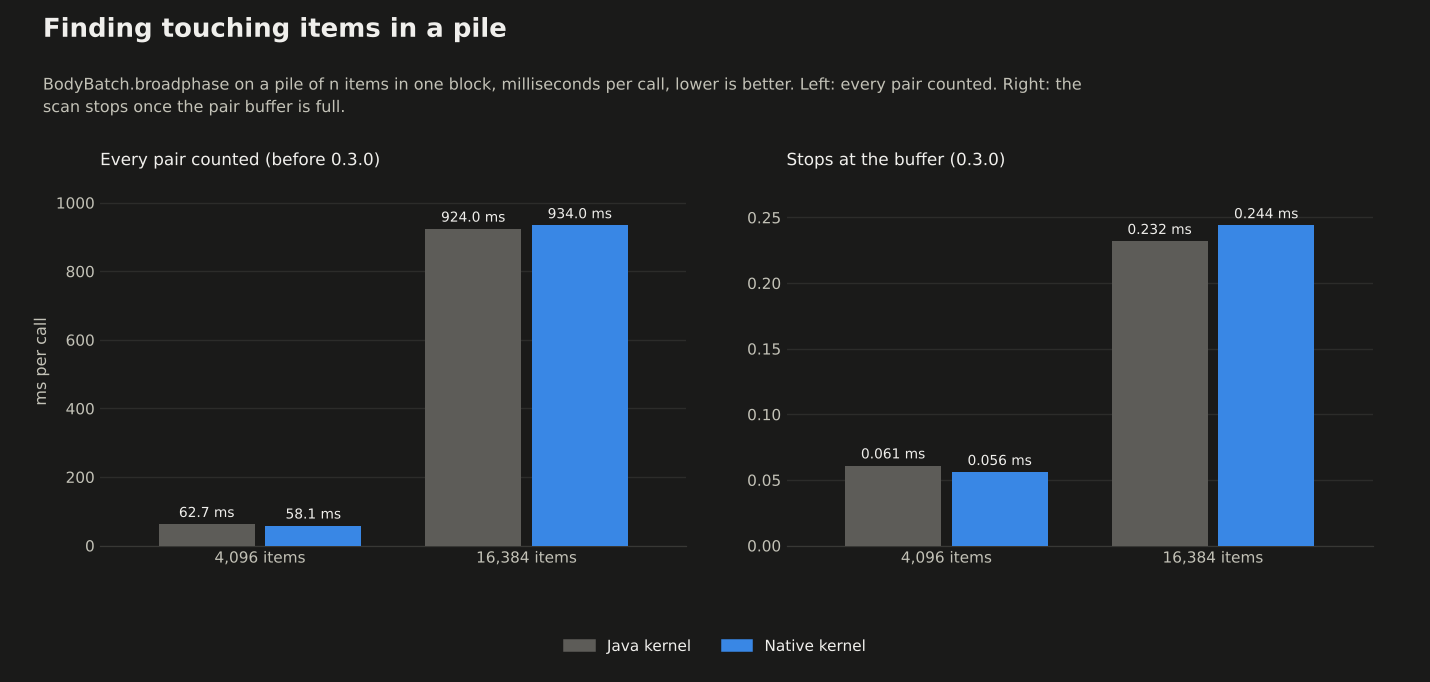
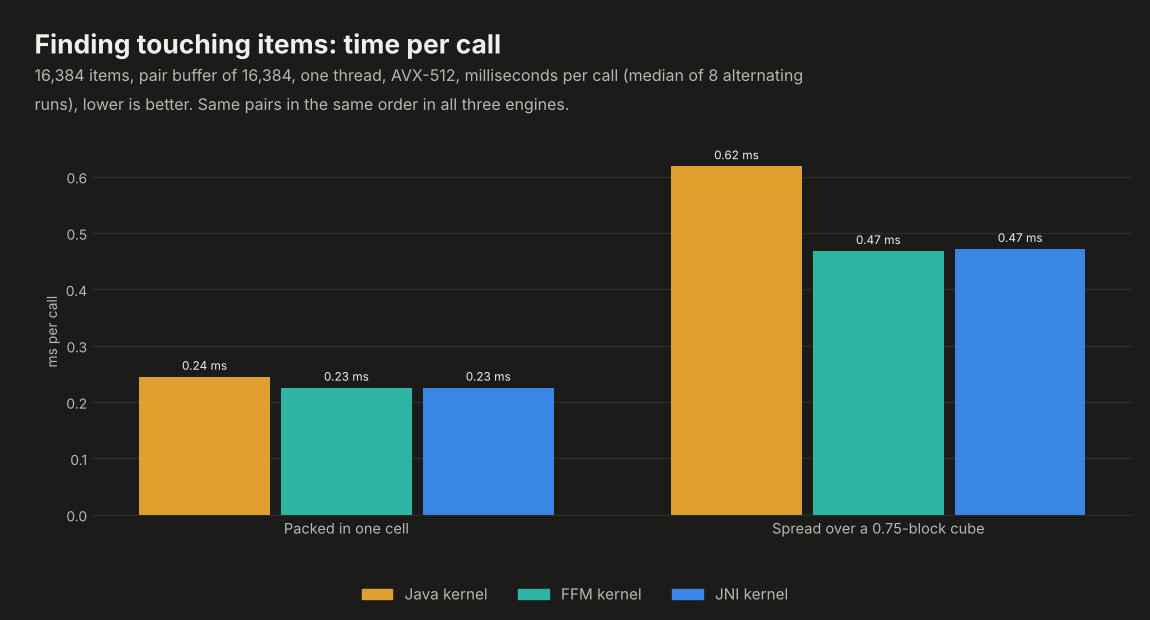
Benchmarks: Java, JNI and FFM side by side; stop selling native code as the speed-up
Every physics benchmark now shows the three engines. Kernel, one thread,
AVX2, alternating runs: the native kernel is 1.6x to 2.0x faster than Java from
10,000 items up (10,000 items: 2.08 ms Java, 1.02 JNI, 1.07 FFM; 32,768:
6.97, 3.41, 3.52), JNI and FFM level. Broadphase of 16,384 items: a tie packed
in one cell (0.24 / 0.23 / 0.23 ms), native ahead spread out (0.62 / 0.47 /
0.47 ms). Real server (Velox, three runs, 1.21.1 and 26.1): Velox is 5x to 18x
faster than the normal game and the three engines tie; the physics step is 1-2 %
of the server thread with native code and about 7 % with Java.

So the README, the wiki and Performance no longer credit native code for the
server result, say the native kernel is off by default and how a mod turns it
on, and give the numbers per engine. The 3-thread rows (not re-measured) and the
laptop-only claims are gone from the headline; the laptop table stays, dated.
The three charts (physics, broadphase, in-game) are regenerated from the
measured data, with the Java kernel, FFM and JNI as separate bars.

diff --git a/docs/wiki/Benchmarks.md b/docs/wiki/Benchmarks.md
@@ -16,21 +16,25 @@ and method.
 
 | Job | Celeris | Compared with | Result |
 |---|---|---|---|
-| A server with 20,000 dropped items, Minecraft 1.21.1 | 18.3 ms per tick (Velox) | 243.0 ms, vanilla NeoForge | **13.3× faster**, from about 4 TPS to a full 20 |
-| The same on Minecraft 26.1 | 35.2 ms per tick | 225.8 ms, vanilla NeoForge | **6.4× faster** |
+| A server with 20,000 dropped items, Minecraft 1.21.1 | 28.0 ms falling, 21.3 ms resting (Velox, JNI kernel) | 493.0 / 260.4 ms, vanilla NeoForge | **18× / 12× faster**, from 2 to 4 TPS to a full 20 |
+| The same on Minecraft 26.1 | 36.5 / 27.4 ms | 488.3 / 260.2 ms, vanilla NeoForge | **13× / 9.5× faster** |
+| The same server with the Java, JNI or FFM kernel | 28.5 / 28.0 / 31.2 ms falling | each other | **tie**: the engine is not what makes Velox fast |
 | Compressing mod data (38 KiB) | native zstd, 542 MiB/s, ratio 5.5× | Java `Deflater` level 6 (what Minecraft uses), 42 MiB/s, ratio 5.8× | **12.8× faster** for nearly the same size |
 | Decompressing it | 1,296 MiB/s | Java `Inflater`, 417 MiB/s | **3.1× faster** |
 | Same, vs zstd-jni 1.5.7 | 542 / 1,296 MiB/s | 454–489 / 1,218–1,302 MiB/s | **tie**: same zstd 1.5.7 underneath, in a 2 MB jar instead of a 7.4 MB one |
-| Moving 10,000 dropped items one tick | 0.97 ms (native kernel) | 1.35 ms (same rules in Java, item by item) | **1.4× faster** |
-| 32,768 items on 3 threads | 0.88 ms | 4.72 ms (Java, one thread) | **5.3× faster**, under 2 % of a 50 ms tick |
-| Finding touching items in a pile of 16,384 | 0.24 ms | 860–1,100 ms (every pair counted, as before 0.3.0) | **~4,000× faster** |
+| Moving 10,000 dropped items one tick, one thread, AVX2 | 1.02 ms (JNI), 1.07 ms (FFM) | 2.08 ms (Java kernel, same rules item by item) | **2.0× faster** in the kernel itself, not in a real server |
+| 32,768 items, one thread, AVX2 | 3.41 ms (JNI), 3.52 ms (FFM) | 6.97 ms (Java kernel) | **2.0× faster** in the kernel itself |
+| Finding touching items in a pile of 16,384 | 0.23 ms (JNI, FFM), 0.24 ms (Java) | 860–1,100 ms (every pair counted, as before 0.3.0) | **~4,000× faster**; Java, JNI and FFM tie |
 | One worker handing results to the game thread | 39.5 M/s | JCTools `MpscArrayQueue` 8.0 M/s, `ArrayBlockingQueue` 4.3 M/s | **4.9× faster** than JCTools |
 | Two or three workers at once | 13.0 / 12.8 M/s | JCTools 8.7 / 9.7, `ArrayBlockingQueue` 4.9 / 3.8 | **1.3–1.5× faster** than JCTools |
 | 100,000 items travelling on 200-block pipes, one tick | 101 µs | 261 µs (one object per item, moved item by item) | **2.6× faster**; on 20-block pipes a **tie** (326 vs 317 µs) |
 | Building a 10,000-block pipe network (a chunk or world load) | 2.7–3.9 ms (`addNodes`) | 45 ms (grid) to 8,966 ms (one long straight run), adding blocks one by one | **12× to 3,300× faster** |
 
 Where Celeris is not the fastest, this page says so: LZ4 compresses 2.3× faster than zstd, at the price of output about
-40 % larger (3.9× instead of 5.5×). The native physics kernel now checks every item for impossible values and
+40 % larger (3.9× instead of 5.5×). **The native physics kernel steps items about twice as fast as the Java kernel, but
+that does not reach the server: in a real server the Java, JNI and FFM kernels give the same tick to within noise**
+(the whole physics step is 1 to 2 % of the server thread with native code and about 7 % with Java), which is why the
+native kernel is off by default and a mod opts in (see [Batch physics](#batch-physics)). It now checks every item for impossible values and
 computes block coordinates without undefined behaviour; measured against the build before those checks it is within
 about 3 % (see [Batch physics](#batch-physics)), which on a real server is lost in the rest of the tick.
 
@@ -41,26 +45,35 @@ about 3 % (see [Batch physics](#batch-physics)), which on a real server is lost 
 A dedicated NeoForge server on a GitHub Actions runner (4 vCPU), flat world, N swords thrown over a 112 × 112 area
 (swords never stack, so every configuration keeps all of them). Vanilla's `tick sprint` runs ticks back to back and
 reports the average milliseconds per tick: *falling* is the first 80 ticks after the throw, *resting* 1,200 ticks
-later with everything on the ground. Milliseconds per tick, lower is better; 50 ms is the 20 TPS budget. Re-measured on
-2026-10-29 with Celeris and Velox at `main` (GitHub run `bichal/BichalBuildLogic` 40922919248), one run per cell on a
-shared runner, so read differences under ~20 % as a tie:
+later with everything on the ground. Milliseconds per tick, lower is better; 50 ms is the 20 TPS budget. Measured on
+2026-10-30 with Celeris `6adf83b` and Velox `main`, three runs in a row (GitHub runs 41010985422, 41010988292 and
+41010991425 of `bichal/BichalBuildLogic`); each cell is the median of the three runs. Velox runs on each of Celeris's
+three physics engines: **Java** (the pure-Java kernel), **JNI** and **FFM** (the native kernel through each binding;
+FFM needs `--enable-preview` on Java 21). The server log of every run says which engine loaded. Each cell is falling /
+resting:
 
-| Minecraft | Items | Vanilla falling / resting | Velox falling / resting | Speed-up |
-|---|---|---|---|---|
-| 1.21.1 | 2,000 | 11.26 / 8.54 | 3.04 / 1.34 | 3.7× / 6.4× |
-| 1.21.1 | 8,000 | 91.23 / 54.40 | 11.36 / 6.32 | 8.0× / 8.6× |
-| 1.21.1 | 20,000 | 447.09 / 243.02 | 25.66 / 18.32 | 17.4× / 13.3× |
-| 26.1 | 2,000 | 11.71 / 7.70 | 2.63 / 1.89 | 4.5× / 4.1× |
-| 26.1 | 8,000 | 70.71 / 52.17 | 16.98 / 9.74 | 4.2× / 5.4× |
-| 26.1 | 20,000 | 296.56 / 225.84 | 41.35 / 35.17 | 7.2× / 6.4× |
+| Minecraft | Items | Normal game | Velox, Java kernel | Velox, FFM kernel | Velox, JNI kernel |
+|---|---|---|---|---|---|
+| 1.21.1 | 2,000 | 15.30 / 8.50 | 5.42 / 1.40 | 3.32 / 1.50 | 2.96 / 1.30 |
+| 1.21.1 | 8,000 | 104.34 / 54.85 | 11.57 / 8.76 | 11.70 / 8.85 | 10.62 / 8.66 |
+| 1.21.1 | 20,000 | 492.99 / 260.40 | 28.53 / 21.54 | 31.15 / 22.94 | 28.00 / 21.29 |
+| 26.1 | 2,000 | 14.70 / 9.01 | 3.47 / 2.23 | 2.65 / 2.32 | 2.45 / 2.15 |
+| 26.1 | 8,000 | 96.73 / 57.71 | 17.72 / 9.71 | 15.06 / 9.64 | 15.86 / 9.31 |
+| 26.1 | 20,000 | 488.27 / 260.24 | 39.87 / 29.65 | 36.45 / 30.74 | 36.52 / 27.39 |
 
-Velox ran with the native kernel here. With Celeris's Java kernel instead the server ties (20,000 items resting:
-19.52 ms on 1.21.1, 33.80 ms on 26.1), and in a JFR profile the kernel is under 3 % of the tick: the speed-up comes
-from Velox batching the item movement, not from the native kernel. The item physics itself is a small part of the
-tick, and what remains is
-Minecraft's own per-entity work (chunk ticking checks, entity tracking, fluid checks), which Velox leaves to the
-game. On 26.1, 0.3.0's Velox also skips the per-item "entity inside block" walk for items over plain blocks, which
-took 4× to 7.5× at 20,000 resting items.
+- Velox is 5× to 18× faster than the normal game. The normal game moves a lot from run to run (20,000 falling items on
+  1.21.1 took 469 to 574 ms in these three runs, and 223 to 283 ms in three earlier runs the same morning), so read the
+  factor as good to about 20 %.
+- **The three engines tie.** At 8,000 and 20,000 items their results lie inside each other's ranges. At 2,000 items
+  falling the Java kernel is slower (5.4 ms against 3.0 to 3.3 ms on 1.21.1), most likely because Java compiles the
+  kernel while the test runs; at 20,000 resting items it is level again.
+- In the Java Flight Recorder profile of 1.21.1 the whole Celeris physics step is 1.0 to 1.5 % of the server thread
+  with JNI, 1.6 to 2.0 % with FFM and 7.0 to 7.9 % with the Java kernel (the kernel alone 5.6 to 6.1 %). A native
+  kernel can save at most that difference, which is inside the noise of these runs. The rest is Minecraft's own
+  per-entity work (chunk ticking checks, entity tracking, fluid checks), which Velox leaves to the game. On 26.1,
+  0.3.0's Velox also skips the per-item "entity inside block" walk for items over plain blocks, which took 4× to 7.5×
+  at 20,000 resting items.
+- The earlier run of 29 October (one run per cell, Java and JNI only) is in the [Velox benchmarks](https://github.com/bichal/Velox/wiki/Benchmarks).
 
 ## Compression
 
@@ -105,17 +118,34 @@ transfers).
 ![Physics time per tick](https://raw.githubusercontent.com/bichal/Celeris/main/docs/media/benchmarks/physics.png)
 
 One game tick of N dropped items in a random 48×32×48 block world: gravity, drag, collision with blocks and ground
-friction, following vanilla's item movement rules. The items are thrown again every 40 ticks so the batch never just
-rests. "Java" is Celeris's pure-Java kernel, which applies the rules one item at a time the way vanilla does; it does
-not include the rest of vanilla's per-entity cost (entity ticking, events, tracking), so vanilla itself is slower
-still. Time per tick in µs:
+friction, following vanilla's item movement rules. "Java" is Celeris's pure-Java kernel, which applies the rules one
+item at a time the way vanilla does; it does not include the rest of vanilla's per-entity cost (entity ticking,
+events, tracking), so vanilla itself is slower still. All three engines give the same results bit for bit. Measured on
+2026-10-30, one thread, AVX2 forced, a 4 vCPU Intel Xeon @ 2.1 GHz VM (the same machine for every engine), 40 warm-up
+ticks and best of 9 trials of 40 ticks, median of 8 runs that alternate the order of the engines. Time per tick:
 
-| Items | Java kernel | Native kernel (AVX2) | Speed-up |
-|---|---|---|---|
-| 1,000 | 129.5 ± 49.4 | 97.3 ± 14.7 | 1.3× |
-| 10,000 | 1,349.5 ± 321.7 | 973.3 ± 235.6 | 1.4× |
-| 32,768 | 4,721.0 ± 2,058.9 | 3,171.3 ± 489.3 | 1.5× |
-| 32,768, 3 worker threads | 1,454.3 ± 427.3 | 882.6 ± 163.5 | 1.6× (5.3× vs one Java thread) |
+| Items | Batches of | Java kernel | FFM kernel | JNI kernel | FFM vs Java | JNI vs Java |
+|---|---|---|---|---|---|---|
+| 10,000 | 1,024 | 2,081 µs | 1,066 µs | 1,020 µs | 1.95× | 2.04× |
+| 10,000 | 16 | 2,230 µs | 1,389 µs | 1,172 µs | 1.61× | 1.90× |
+| 32,768 | 1,024 | 6,974 µs | 3,515 µs | 3,409 µs | 1.98× | 2.05× |
+| 32,768 | 16 | 6,342 µs | 3,932 µs | 3,661 µs | 1.61× | 1.73× |
+| 100,000 | 1,024 | 19,853 µs | 11,440 µs | 11,293 µs | 1.74× | 1.76× |
+| 100,000 | 16 | 19,792 µs | 12,345 µs | 11,979 µs | 1.60× | 1.65× |
+
+- **The native kernel is about twice as fast as the Java kernel**: 1.6× to 2.0× from 10,000 items up, JNI and FFM level
+  with each other (the two bindings run the same C++ code). With batches of 16, where the cost of each call shows, JNI
+  is a little ahead of FFM (1.7× against 1.6× at 32,768 items).
+- At 1,000 items a tick takes tens of microseconds, and the Java kernel is still being compiled during these 400
+  ticks (386 µs against about 100 µs); once compiled it takes 57 µs against 49 to 53 µs (3,000 ticks of warm-up, best of
+  5). Java needs warm-up and the native kernel does not, which helps it show ahead in short tests.
+- With AVX-512 (the same VM, `auto`) the ratios are the same: see the [Native bench](#benchmark-index-and-local-re-run)
+  workflow to measure your own CPU.
+- **This does not make a real server faster.** The step is 1 to 2 % of the server thread with native code and about 7 %
+  with Java, and in the server test above the three engines tie. Celeris therefore runs the Java kernel by default and
+  a mod asks for the native one with `CelerisPhysics.allowNative("modid")` when its own work makes it worth it
+  (Velox does: it steps thousands of items in a batch). A player can force either with
+  `-Dceleris.physics.engine=java|auto|jni|ffm`. See [Using Celeris in your mod](Using-Celeris-in-your-mod).
 
 Both kernels now refuse items whose position, speed or size is not a finite, plausible number (NaN, infinity,
 1e300, billions of blocks away) and leave them to vanilla, and they compute block coordinates without undefined
@@ -146,8 +176,8 @@ floor and ceil too; leaving the clamp out where the check already bounds the val
 tried with both versions in one JVM, interleaved, and cannot be told from noise (the same code against itself reads
 −4 % to +4 % between JVM runs, the change −8 % to +7 %), so the Java kernel is unchanged.
 
-The native kernel is picked automatically when the CPU and JVM allow it (AVX2, AVX-512 or NEON builds ship in the
-jar); otherwise the Java kernel runs with identical results.
+When a mod asks for the native kernel and the CPU and JVM allow it (AVX2, AVX-512 or NEON builds ship in the jar), it
+is used; otherwise the Java kernel runs with identical results.
 
 ## Finding touching items
 
@@ -167,10 +197,11 @@ exactly the first ones of the full list, in the same order on the Java and nativ
 
 Once the scan stops early, what is left is hashing every item into a cell and sorting them by cell, the same work
 on both kernels, so Java and native are level (the native broadphase is now compiled per ISA like the step; built for
-the baseline ISA only it was 15–20 % behind Java here). Re-measured on 2026-10-30, one thread, 16,384 items in one
-cell with a pair buffer of 16,384, 8 alternating rounds, best of five trials, median: FFM 0.23 ms, JNI 0.23 ms (a
-tie), Java 0.24 ms (about 5 % behind, inside this VM's noise). Spread over several cells (a 0.75-block cube) the
-native broadphase is ahead: 0.47 ms against 0.62 ms for Java, FFM and JNI still tied.
+the baseline ISA only it was 15–20 % behind Java here). The chart shows the three engines on 2026-10-30 (one thread,
+AVX-512, 16,384 items with a pair buffer of 16,384, 8 alternating runs, best of 5 trials, median): with the items
+packed in one cell **the three tie** (FFM 0.23 ms, JNI 0.23 ms, Java 0.24 ms, which is about 5 % and inside this VM's
+noise); spread over several cells (a 0.75-block cube) the native broadphase is ahead, 0.47 ms (FFM) and 0.47 ms (JNI)
+against 0.62 ms for Java.
 
 ## Handing results to the game thread
 
@@ -290,8 +321,8 @@ trial of the harness, `jdk.incubator.vector` active). Best of five trials, one t
 | | FFM | 74.8 ns/body (7.48 ms per tick) | 88.4 ns/body (8.84 ms per tick) |
 | | JNI | 73.2 ns/body (7.32 ms per tick) | 79.8 ns/body (7.98 ms per tick) |
 
-The native engines are about 1.5× faster than the Java kernel here, in line with the 1.3–1.6× of the table in
-[Batch physics](#batch-physics). JNI and FFM tie: the ~10 % gap on batches of 16 in this table is inside this
+The native engines are about 1.5× faster than the Java kernel here, in line with the 1.6× to 2.0× of the
+table in [Batch physics](#batch-physics) (another CPU). JNI and FFM tie: the ~10 % gap on batches of 16 in this table is inside this
 harness's noise (±8 %), and a cloud-VM re-measurement with 8 alternating rounds finds none (JNI −2 % to +5 % of FFM).
 MPSC ring buffer, median of the run: `MpscRingBuffer` 19.7 M ops/s, `ArrayBlockingQueue`
 9.7 M, `LinkedBlockingQueue` 8.9 M, `ConcurrentLinkedQueue` 7.8 M (2.0× the best contender). Nearest-of-3: 48.9 ns

diff --git a/docs/wiki/Performance.md b/docs/wiki/Performance.md
@@ -15,9 +15,11 @@ Celeris is about as fast as zstd-jni, the usual Java zstd library. Its jar is ab
 
 ## Dropped items
 
-- 32,768 dropped items moved in 0.88 ms per tick, on 3 threads, with the native kernel. A game tick lasts 50 ms at 20 ticks per second, so this is under 2 percent of a tick. The Java kernel on the same 3 threads takes 1.45 ms, so the kernel accounts for a factor of 1.6 and the extra threads for the rest.
-- The same rules in plain Java, on one thread, take 4.72 ms. That is 5.3 times longer.
-- Finding the items that touch each other in a pile of 16,384 takes 0.24 ms. Before, the same search could take close to a second.
+Celeris has three physics engines: the Java kernel, and the native kernel through JNI or through FFM. They give the same results bit for bit. One thread, AVX2, measured on 2026-10-30:
+
+- 10,000 dropped items take 2.08 ms per tick with the Java kernel, 1.02 ms with JNI and 1.07 ms with FFM. 32,768 items take 6.97 ms, 3.41 ms and 3.52 ms. The native kernel is about twice as fast as the Java kernel, and JNI and FFM are level.
+- **That does not make a real server faster.** The step is 1 to 2 percent of the server thread with native code and about 7 percent with Java, and in the server test below the three engines give the same tick to within noise. So the Java kernel is the default, and a mod asks for the native one when it helps that mod.
+- Finding the items that touch each other in a pile of 16,384 takes 0.23 ms (JNI, FFM) or 0.24 ms (Java), a tie. Before, the same search could take close to a second.
 
 ## Passing results between threads
 
@@ -30,7 +32,7 @@ Celeris is about as fast as zstd-jni, the usual Java zstd library. Its jar is ab
 
 ## A real server
 
-Velox is a server mod built on Celeris. On a server with Minecraft 1.21.1 and 20,000 dropped items, Velox takes 18.3 ms per tick. Vanilla NeoForge takes 243.0 ms. That is 13.3 times faster, and it takes the server from about 4 ticks per second to a full 20 (measured on 2026-10-29, one run on a shared GitHub runner). The gain is Velox batching the item movement, not the native kernel: the kernel is under 3 percent of that tick and the Java kernel gives the same tick to within noise.
+Velox is a server mod built on Celeris. On a server with Minecraft 1.21.1 and 20,000 dropped items, Velox takes 28.0 ms per tick while the items fall and 21.3 ms once they rest. Vanilla NeoForge takes 493.0 ms and 260.4 ms. That is 18 and 12 times faster, and it takes the server from 2 to 4 ticks per second to a full 20 (median of three runs on 2026-10-30 on a shared GitHub runner). Velox with the Java kernel takes 28.5 ms and 21.5 ms, and with FFM 31.2 ms and 22.9 ms: the three engines tie, and the gain comes from Velox batching the item movement, not from native code.
 
 ![Compression benchmark](https://raw.githubusercontent.com/bichal/Celeris/main/docs/media/benchmarks/compression.png)
 ![Physics benchmark](https://raw.githubusercontent.com/bichal/Celeris/main/docs/media/benchmarks/physics.png)

diff --git a/README.md b/README.md
@@ -49,20 +49,19 @@ October 2026 with Celeris 0.2.3. The physics kernel has since started checking e
 is within about 3 % of the build before those checks (measured 2026-10-30). Method and full tables in the
 [benchmarks page](https://github.com/bichal/Celeris/wiki/Benchmarks)):
 
-- 🖥 **A real server with 20,000 dropped items** (Minecraft 1.21.1, with the Velox mod): 18.3 ms per tick instead of
-  243.0 ms, 13.3× faster and back to a full 20 TPS (measured on 2026-10-29). The gain is Velox batching the item
-  movement and skipping vanilla's per-item work, not the native kernel: the kernel is under 3 % of that tick, and
-  the Java and native kernels give the same tick to within noise.
+- 🖥 **A real server with 20,000 dropped items** (Minecraft 1.21.1, with the Velox mod, median of 3 runs on 2026-10-30):
+  **28.0 ms per tick instead of 493.0 ms** while they fall (18× faster) and **21.3 ms instead of 260.4 ms** once they
+  rest (12×), back to a full 20 TPS. The gain is Velox batching the item movement and skipping vanilla's per-item
+  work, not native code: with the Java, JNI or FFM kernel the server gives the same tick to within noise.
 - 🗜 **12.8× faster compression** than Java's built-in deflate (what Minecraft uses) for nearly the same size, and
   **3.1× faster decompression**. As fast as zstd-jni in a jar a quarter of its size.
-- 🏃 **32,768 dropped items moved in 0.88 ms** per tick on 3 threads with the native kernel, 5.3× faster than the
-  same rules in Java on one thread and under 2 % of a tick. At the same 3 threads the Java kernel takes 1.45 ms, so
-  1.6× is the kernel and the rest is the threads.
-- 🧲 **Item piles no longer stall**: finding the touching items in a pile of 16,384 takes 0.24 ms instead of up to a
-  second.
-- ⚙ **Native physics engines are 1.5× to 1.8× faster than the Java kernel** on one thread (laptop: 73 to 75 against
-  114 ns per body; 4-vCPU cloud VM: 105 to 107 against 196, batches of 1,024; 100,000 bodies). JNI and FFM tie.
-  You can check it yourself with `./gradlew benchmarkTest`.
+- ⚙ **Three physics engines, same results bit for bit:** the Java kernel, and the native kernel through JNI or FFM.
+  Stepping 32,768 items on one thread takes 6.97 ms in Java, 3.41 ms through JNI and 3.52 ms through FFM (AVX2): the
+  native kernel is about 2× faster in the kernel itself, but the step is only 1 to 2 % of a server tick with native
+  code and about 7 % with Java, so it is **off by default**. A mod that gains from it asks with
+  `CelerisPhysics.allowNative("modid")` (Velox does), and `-Dceleris.physics.engine=java|auto|jni|ffm` overrides.
+- 🧲 **Item piles no longer stall**: finding the touching items in a pile of 16,384 takes 0.23 ms instead of up to a
+  second (Java, JNI and FFM tie).
 - 🧵 **4.9× faster hand-off** from one worker thread to the game thread than JCTools, and still ahead with two or
   three workers.
 
